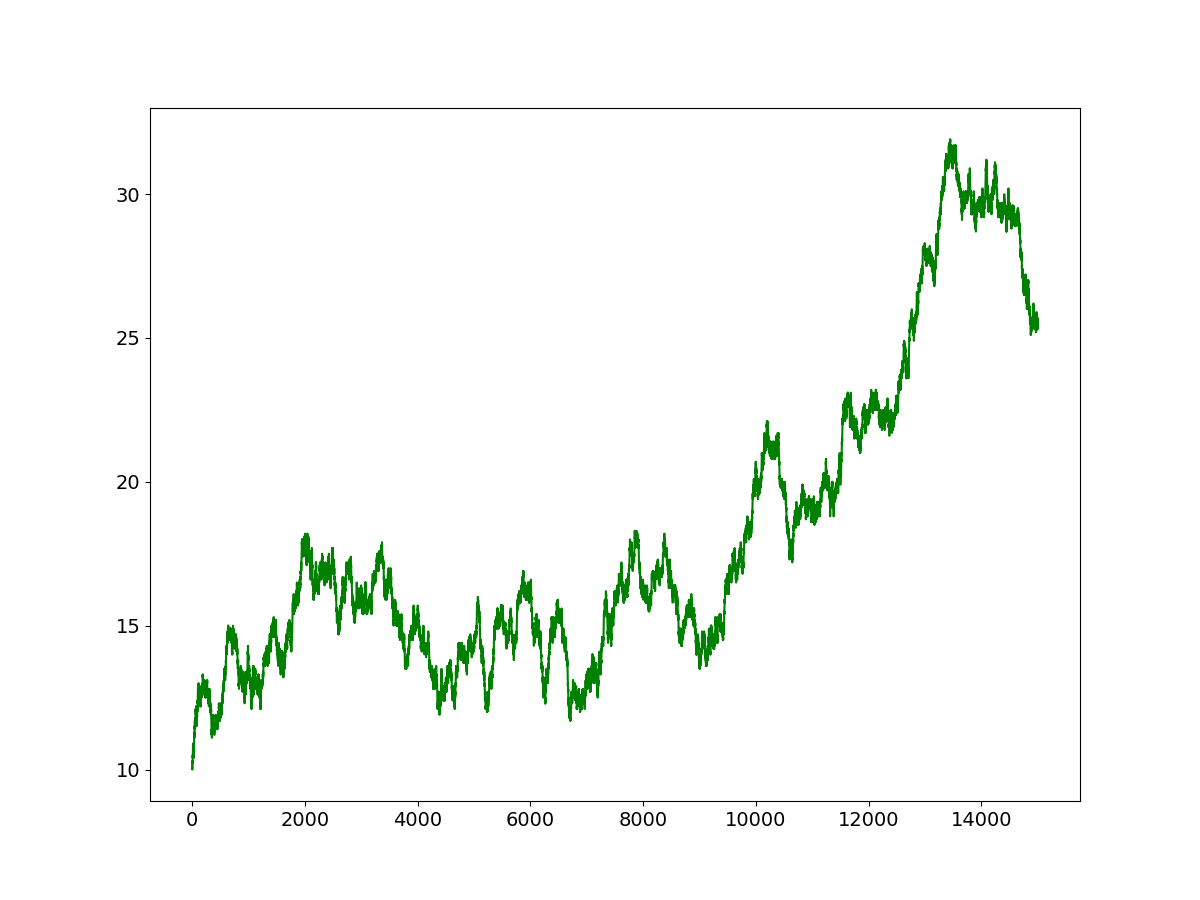
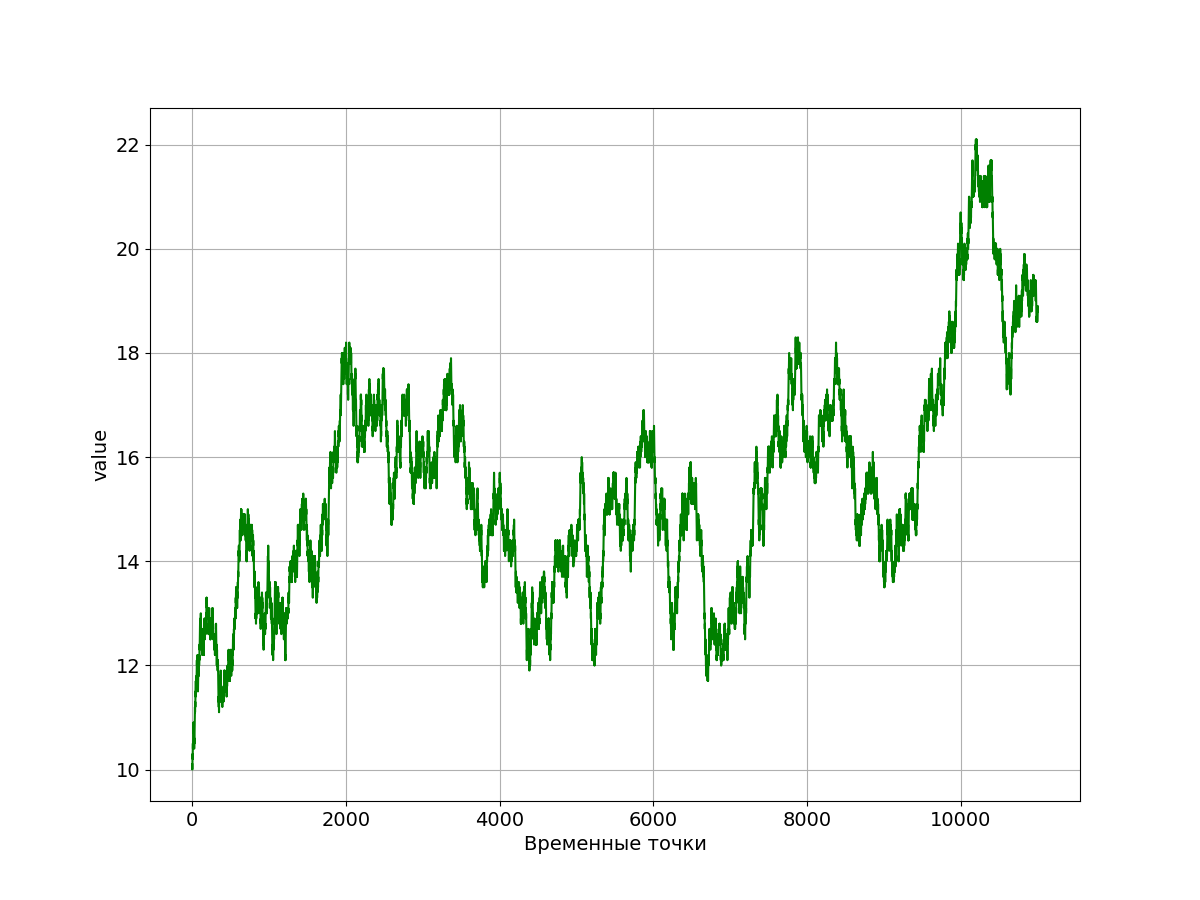
Созвон

diff --git a/main.py b/main.py
@@ -163,6 +163,18 @@ def test_rw():
     plt.plot(res, 'g')
     
     plt.savefig("dataset_view")
+def plot(file_name, column_name):
+    X = pd.read_csv(file_name).value
+    # X = torch.tensor(self.data[self.column_name].values[:self.data_size:self.step], dtype=torch.float32).view(-1, 1)
+    plt.rcParams["figure.figsize"] = (12,9)
+    plt.rcParams.update({'font.size': 14})
+    plt.plot(X[:11000], 'g')
+    plt.grid(visible=True)
+    plt.xlabel('Временные точки', fontsize=14)
+    plt.ylabel(column_name, fontsize=14)
+    plt.savefig("dataset_view")
 
-train()
-test1()
+if __name__ == "__main__":
+    plot("dataset_1.csv", "value")
+    # train()
+    # test1()

diff --git a/notes/note_16-02-2024(консультация).md b/notes/note_16-02-2024(консультация).md
@@ -1,0 +1,7 @@
+# Заметка 11-02-2024
+
+## Разбор результатов
+
+
+## Слудующие шаги
+
